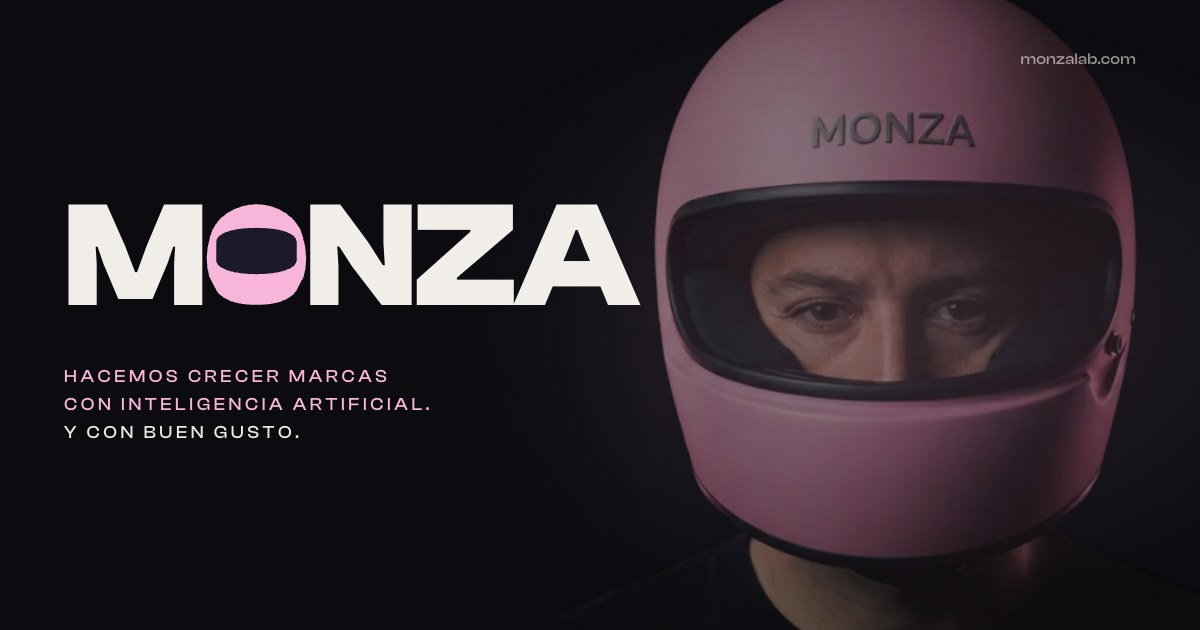
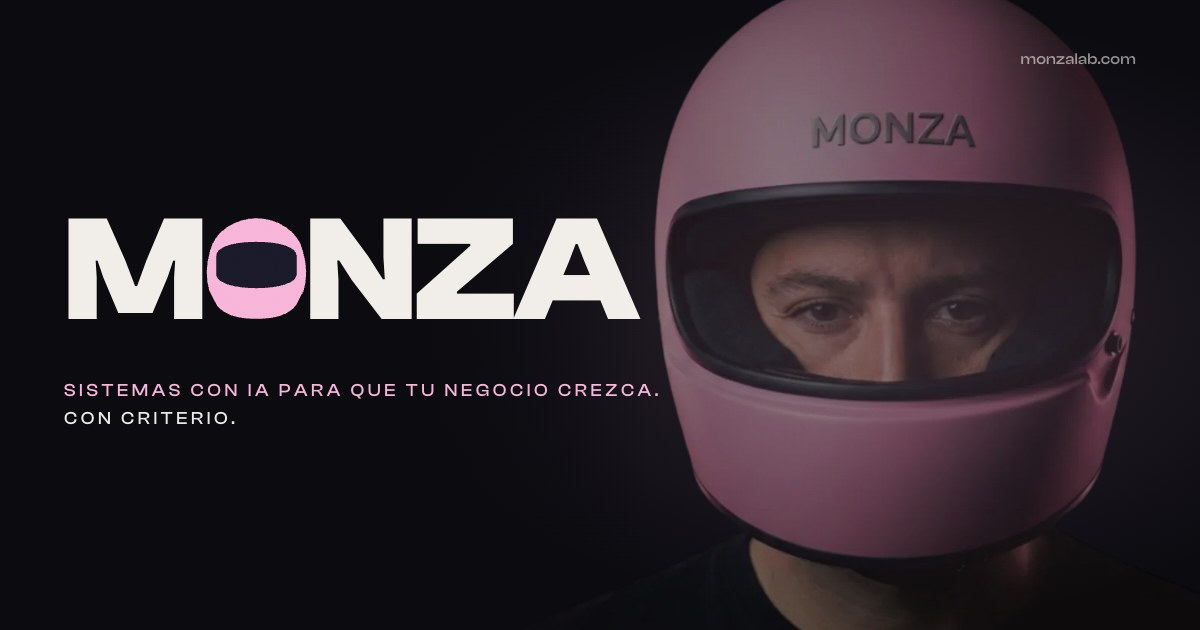
feat(portada): el hero dice «Sistemas con IA para que tu negocio crezca. Con criterio.»
Pedido de Edgar (30-sep-2026): «buen gusto» no le convence y «marcas» deja por fuera a
empresas que no son marcas de consumo. Mismo texto que su titular de LinkedIn.

- Hero, h1 oculto, pie de página, título y descripción SEO en los cuatro idiomas
  (EN «With judgment.», DE «Mit Verstand.», PT «Com critério.»).
- index.html (title, description, og, twitter, JSON-LD) y llms.txt.
- Tarjetas de la portada regeneradas; OG_VERSION 4 → 5.

Claude-Session: https://claude.ai/code/session_01Sbeheaji88nqtbc5BT6e7y

Changed region(s): [[0.0308, 0.3016, 0.555, 0.5127], [0.0308, 0.573, 0.555, 0.6937], [0.0617, 0.3016, 0.0925, 0.3619]]

diff --git a/index.html b/index.html
@@ -18,8 +18,8 @@
     <link rel="alternate" hreflang="pt" href="https://www.monzalab.com/pt" data-react-helmet="true" />
     <link rel="alternate" hreflang="x-default" href="https://www.monzalab.com/" data-react-helmet="true" />
 
-    <title>Monza Lab · Hacemos crecer marcas con inteligencia artificial</title>
-    <meta name="description" content="Hacemos crecer marcas con inteligencia artificial. Y con buen gusto. Tiendas, plataformas y agentes con IA para empresas. Fundado por Edgar Navarro." data-react-helmet="true" />
+    <title>Monza Lab · Sistemas con IA para que tu negocio crezca</title>
+    <meta name="description" content="Sistemas con IA para que tu negocio crezca. Con criterio. Agentes de WhatsApp, plataformas y tiendas con IA para empresas. Fundado por Edgar Navarro." data-react-helmet="true" />
     <meta name="keywords" content="company builder, AI-native, MonzaHaus, Monza Index, Monza Studio, Bavarian Econs, Porsche intelligence, AI adoption, branding luxury, e-commerce de lujo, Shopify Storefront API, contenido con IA, growth multi-canal, founder Edgar Navarro" />
     <meta name="author" content="Edgar Navarro — Monza Lab" />
     <meta name="robots" content="index, follow, max-image-preview:large, max-snippet:-1, max-video-preview:-1" data-react-helmet="true" />
@@ -37,20 +37,20 @@
     <meta property="og:locale" content="es_ES" data-react-helmet="true" />
     <meta property="og:locale:alternate" content="en_US" data-react-helmet="true" />
     <meta property="og:locale:alternate" content="de_DE" data-react-helmet="true" />
-    <meta property="og:image" content="https://www.monzalab.com/og/es/home.jpg?v=4" data-react-helmet="true" />
+    <meta property="og:image" content="https://www.monzalab.com/og/es/home.jpg?v=5" data-react-helmet="true" />
     <meta property="og:image:width" content="1200" data-react-helmet="true" />
     <meta property="og:image:height" content="630" data-react-helmet="true" />
     <meta property="og:image:alt" content="Monza Lab — AI-Native Company Builder · Ventures y Plataformas AI-First" data-react-helmet="true" />
-    <meta property="og:title" content="Monza Lab · Hacemos crecer marcas con inteligencia artificial" data-react-helmet="true" />
-    <meta property="og:description" content="Hacemos crecer marcas con inteligencia artificial. Y con buen gusto. Tiendas, plataformas y agentes con IA para empresas." data-react-helmet="true" />
+    <meta property="og:title" content="Monza Lab · Sistemas con IA para que tu negocio crezca" data-react-helmet="true" />
+    <meta property="og:description" content="Sistemas con IA para que tu negocio crezca. Con criterio. Agentes de WhatsApp, plataformas y tiendas con IA para empresas." data-react-helmet="true" />
 
     <!-- Twitter -->
     <meta name="twitter:card" content="summary_large_image" data-react-helmet="true" />
     <meta name="twitter:site" content="@MonzaLab" data-react-helmet="true" />
     <meta name="twitter:creator" content="@edgarnavarro" data-react-helmet="true" />
-    <meta name="twitter:image" content="https://www.monzalab.com/og/es/home.jpg?v=4" data-react-helmet="true" />
-    <meta name="twitter:title" content="Monza Lab · Hacemos crecer marcas con inteligencia artificial" data-react-helmet="true" />
-    <meta name="twitter:description" content="Hacemos crecer marcas con inteligencia artificial. Y con buen gusto. Tiendas, plataformas y agentes con IA para empresas." data-react-helmet="true" />
+    <meta name="twitter:image" content="https://www.monzalab.com/og/es/home.jpg?v=5" data-react-helmet="true" />
+    <meta name="twitter:title" content="Monza Lab · Sistemas con IA para que tu negocio crezca" data-react-helmet="true" />
+    <meta name="twitter:description" content="Sistemas con IA para que tu negocio crezca. Con criterio. Agentes de WhatsApp, plataformas y tiendas con IA para empresas." data-react-helmet="true" />
 
     <!-- Structured Data — Organization -->
     <script type="application/ld+json">
@@ -62,7 +62,7 @@
       "url": "https://www.monzalab.com",
       "sameAs": ["https://www.instagram.com/monza.lab/"],
       "logo": "https://www.monzalab.com/favicon.svg",
-      "description": "Hacemos crecer marcas con inteligencia artificial. Y con buen gusto. Company builder AI-native: tiendas Shopify operadas con IA, plataformas y agentes de IA para empresas (ventas por WhatsApp, asesores sobre ERP), contenido con IA, formación (Monza Sessions) y productos propios.",
+      "description": "Sistemas con IA para que tu negocio crezca. Con criterio. Company builder AI-native: tiendas Shopify operadas con IA, plataformas y agentes de IA para empresas (ventas por WhatsApp, asesores sobre ERP), contenido con IA, formación (Monza Sessions) y productos propios.",
       "founder": {
         "@type": "Person",
         "name": "Edgar Navarro",

diff --git a/src/components/portada/textos.ts b/src/components/portada/textos.ts
@@ -8,33 +8,33 @@ const t = (es: string, en: string, de: string, pt: string): T => ({ es, en, de, 
 
 export const SEO_HOME = {
   titulo: t(
-    "Monza Lab · Hacemos crecer marcas con inteligencia artificial",
-    "Monza Lab · We grow brands with artificial intelligence",
-    "Monza Lab · Wir lassen Marken mit künstlicher Intelligenz wachsen",
-    "Monza Lab · Fazemos crescer marcas com inteligência artificial",
+    "Monza Lab · Sistemas con IA para que tu negocio crezca",
+    "Monza Lab · AI systems that help your business grow",
+    "Monza Lab · KI-Systeme, damit dein Unternehmen wächst",
+    "Monza Lab · Sistemas com IA para o teu negócio crescer",
   ),
   descripcion: t(
-    "Hacemos crecer marcas con inteligencia artificial y con buen gusto: tiendas, plataformas, agentes de WhatsApp y contenido, conectados en un solo sistema.",
-    "We grow brands with artificial intelligence and good taste: stores, platforms, WhatsApp agents and content, connected in one system.",
-    "Wir lassen Marken mit künstlicher Intelligenz und gutem Geschmack wachsen: Shops, Plattformen, WhatsApp-Agenten und Content, verbunden in einem System.",
-    "Fazemos crescer marcas com inteligência artificial e bom gosto: lojas, plataformas, agentes de WhatsApp e conteúdo, ligados num só sistema.",
+    "Sistemas con IA para que tu negocio crezca. Con criterio: agentes de WhatsApp, plataformas, tiendas, pauta y contenido, conectados entre sí.",
+    "AI systems that help your business grow. With judgment: WhatsApp agents, platforms, stores, ads and content, all connected.",
+    "KI-Systeme, damit dein Unternehmen wächst. Mit Verstand: WhatsApp-Agenten, Plattformen, Shops, Werbung und Content, miteinander verbunden.",
+    "Sistemas com IA para o teu negócio crescer. Com critério: agentes de WhatsApp, plataformas, lojas, publicidade e conteúdo, ligados entre si.",
   ),
 };
 
 export const HERO = {
   h1: t(
-    "Monza Lab. Hacemos crecer marcas con inteligencia artificial. Y con buen gusto.",
-    "Monza Lab. We grow brands with artificial intelligence. And with good taste.",
-    "Monza Lab. Wir lassen Marken mit künstlicher Intelligenz wachsen. Und mit gutem Geschmack.",
-    "Monza Lab. Fazemos crescer marcas com inteligência artificial. E com bom gosto.",
+    "Monza Lab. Sistemas con IA para que tu negocio crezca. Con criterio.",
+    "Monza Lab. AI systems that help your business grow. With judgment.",
+    "Monza Lab. KI-Systeme, damit dein Unternehmen wächst. Mit Verstand.",
+    "Monza Lab. Sistemas com IA para o teu negócio crescer. Com critério.",
   ),
   lineaA: t(
-    "Hacemos crecer marcas con inteligencia artificial.",
-    "We grow brands with artificial intelligence.",
-    "Wir lassen Marken mit künstlicher Intelligenz wachsen.",
-    "Fazemos crescer marcas com inteligência artificial.",
+    "Sistemas con IA para que tu negocio crezca.",
+    "AI systems that help your business grow.",
+    "KI-Systeme, damit dein Unternehmen wächst.",
+    "Sistemas com IA para o teu negócio crescer.",
   ),
-  lineaB: t("Y con buen gusto.", "And with good taste.", "Und mit gutem Geschmack.", "E com bom gosto."),
+  lineaB: t("Con criterio.", "With judgment.", "Mit Verstand.", "Com critério."),
   toca: t("Toca la pantalla", "Tap the screen", "Tippe auf den Bildschirm", "Toca no ecrã"),
   cta: t("Ver proyectos", "See projects", "Projekte ansehen", "Ver projetos"),
 };

diff --git a/src/components/FooterMinimal.tsx b/src/components/FooterMinimal.tsx
@@ -47,10 +47,10 @@ const COLUMNAS: { titulo: LangText; items: Item[] }[] = [
   },
 ];
 const LEMA = L(
-  "Hacemos crecer marcas con inteligencia artificial. Y con buen gusto.",
-  "We grow brands with artificial intelligence. And with good taste.",
-  "Wir lassen Marken mit künstlicher Intelligenz wachsen. Und mit gutem Geschmack.",
-  "Fazemos crescer marcas com inteligência artificial. E com bom gosto.",
+  "Sistemas con IA para que tu negocio crezca. Con criterio.",
+  "AI systems that help your business grow. With judgment.",
+  "KI-Systeme, damit dein Unternehmen wächst. Mit Verstand.",
+  "Sistemas com IA para o teu negócio crescer. Com critério.",
 );
 const IDIOMAS: Lang[] = ["es", "en", "de", "pt"];
 

diff --git a/src/components/portada/HeroCasco.tsx b/src/components/portada/HeroCasco.tsx
@@ -2,7 +2,7 @@
  *
  * La foto del casco llena la pantalla; donde pasa el cursor (o el dedo) se abre un círculo suave
  * y aparece la cara con gafas, y el MONZA de encima pasa de lleno a contorno. La frase se escribe
- * una vez en dos tiempos («Hacemos crecer marcas con IA.» · «Y con buen gusto.») y al terminar la
+ * una vez en dos tiempos («Sistemas con IA para que tu negocio crezca.» · «Con criterio.», 30-sep-2026) y al terminar la
  * cara aparece sola una vez.
  *
  * Prerender (lib/prerender.ts): dentro del prerender no hay animaciones y la frase va completa;

diff --git a/src/components/SEO.tsx b/src/components/SEO.tsx
@@ -26,7 +26,7 @@ const SITE_URL = "https://www.monzalab.com";
  * cuando se vuelvan a pintar (scripts/og/generar.mjs), subir este número para que
  * las redes las vuelvan a descargar. v2 = 2026-08-17 (fix del mosaico de la home).
  * v3 = 2026-09-28: tarjetas estáticas por página y por caso, en los cuatro idiomas. */
-const OG_VERSION = "4";
+const OG_VERSION = "5";
 
 const LOCALE_MAP = {
   es: "es_ES",
